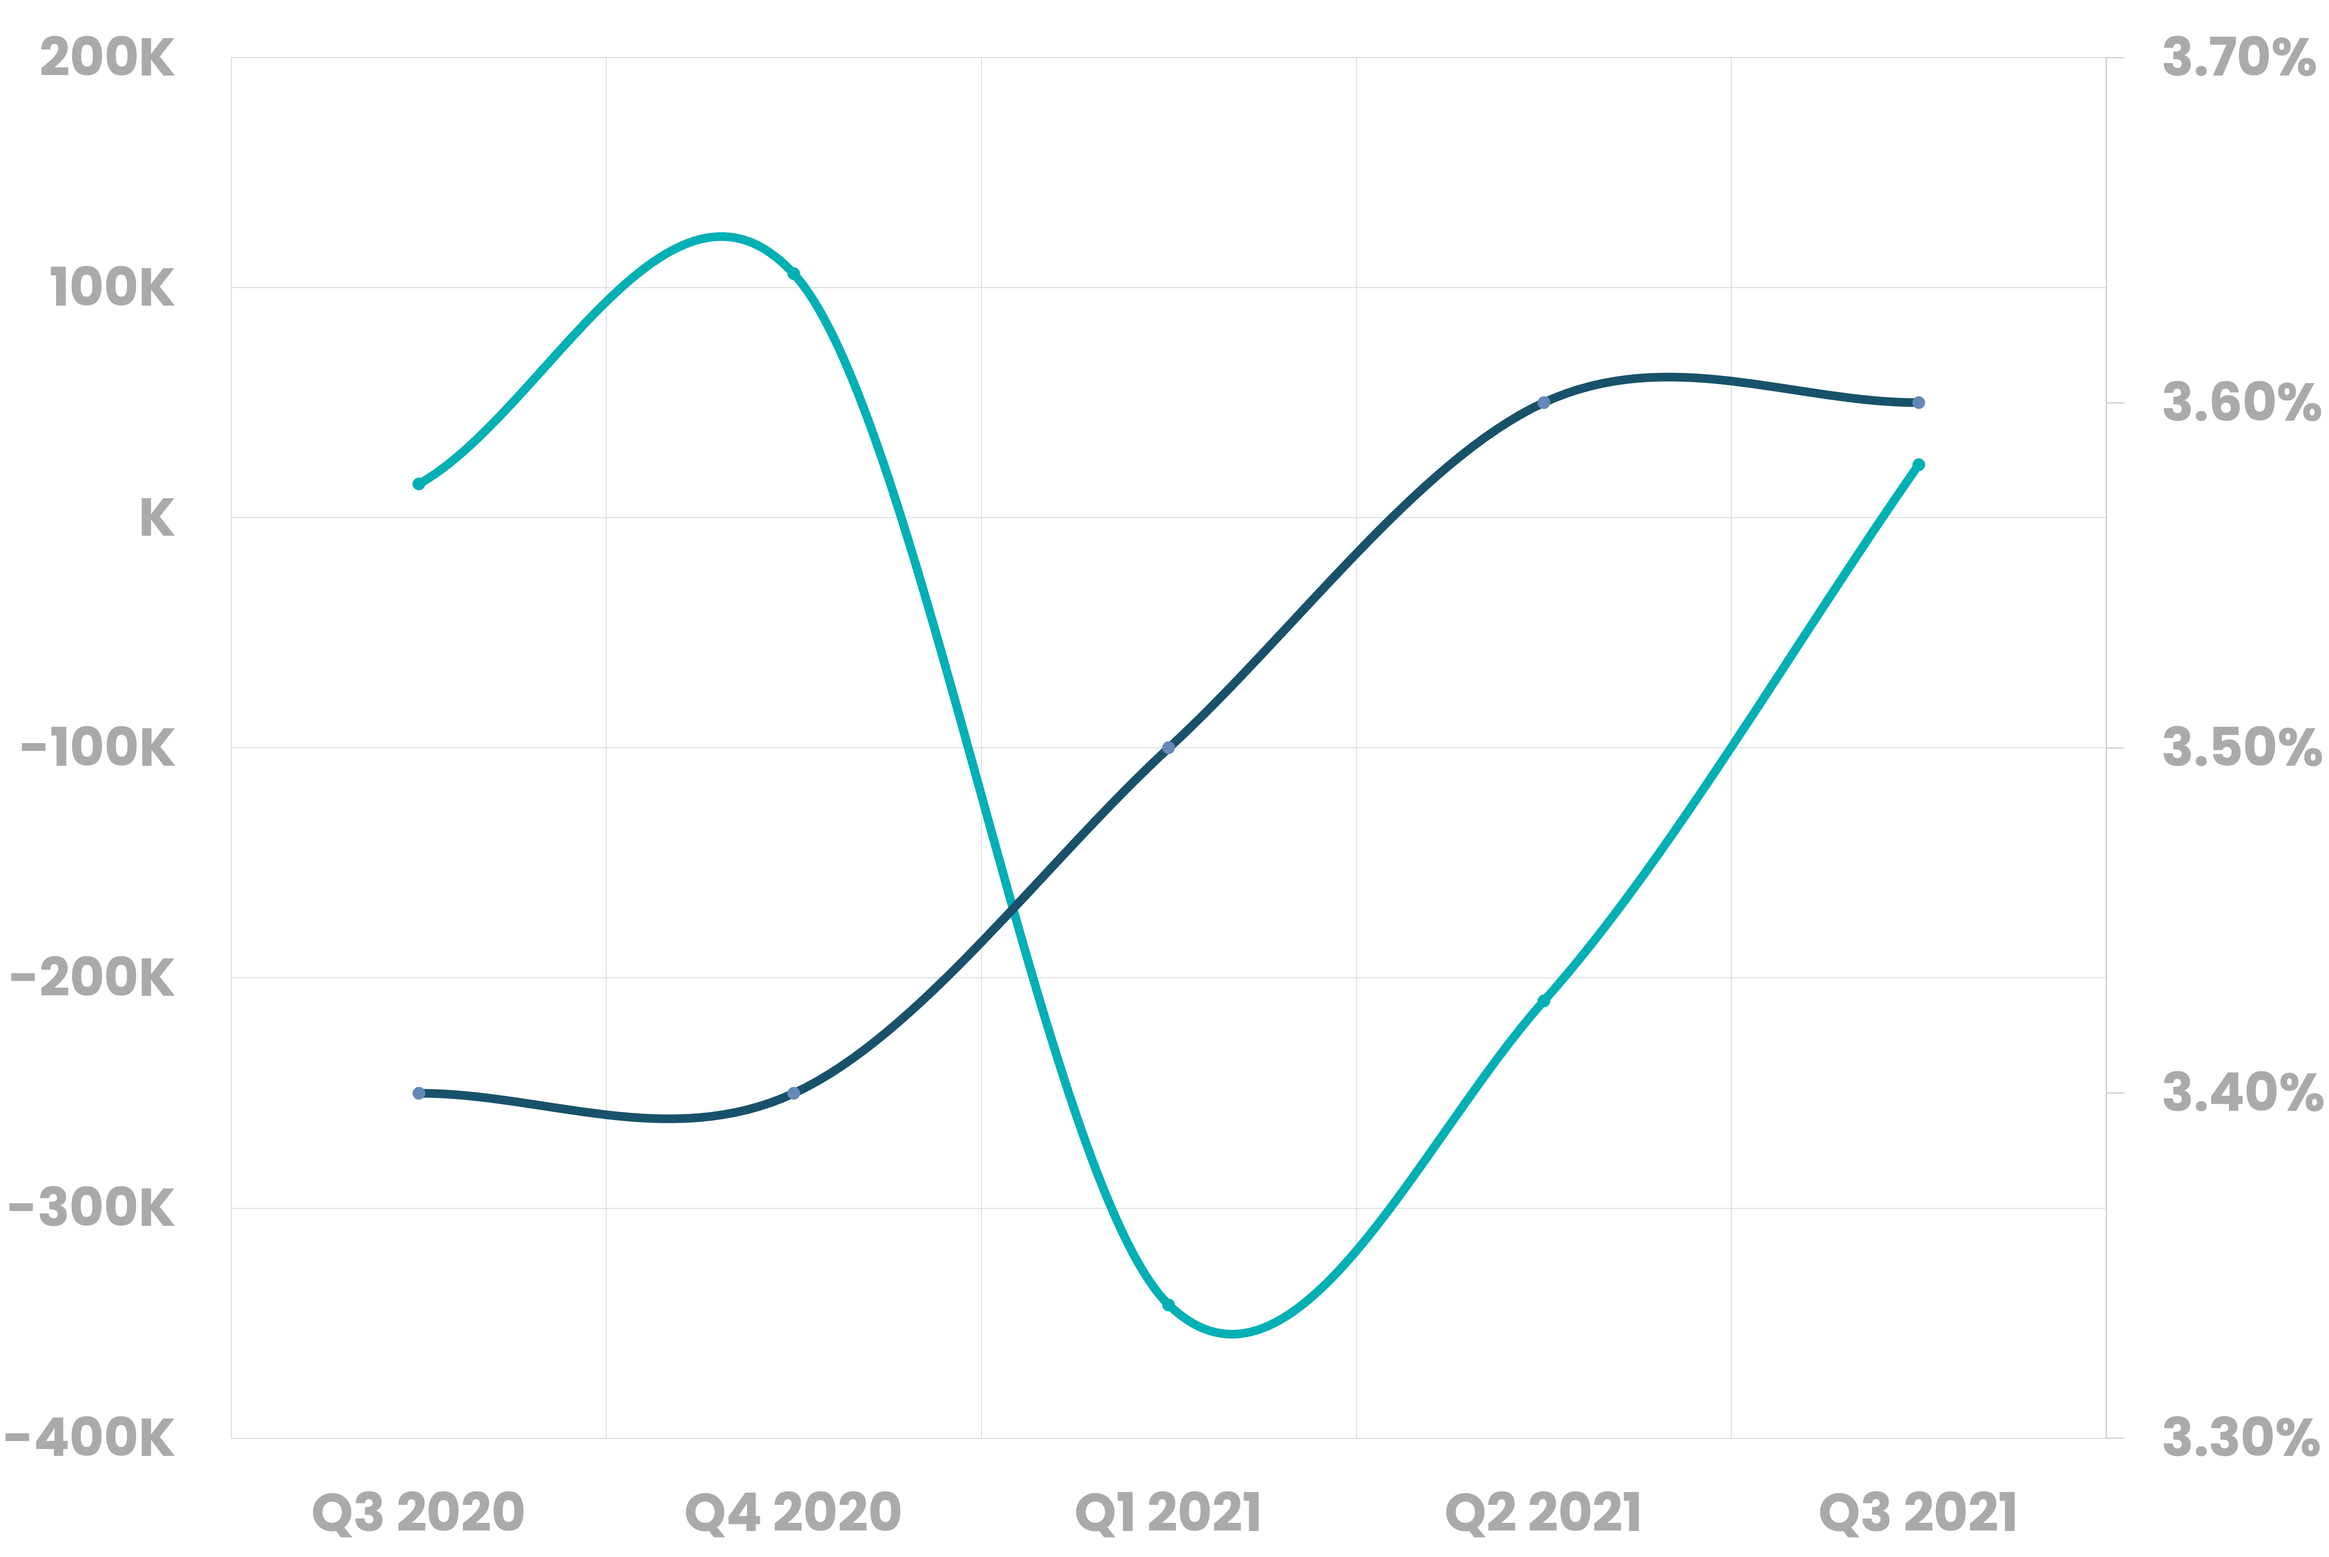
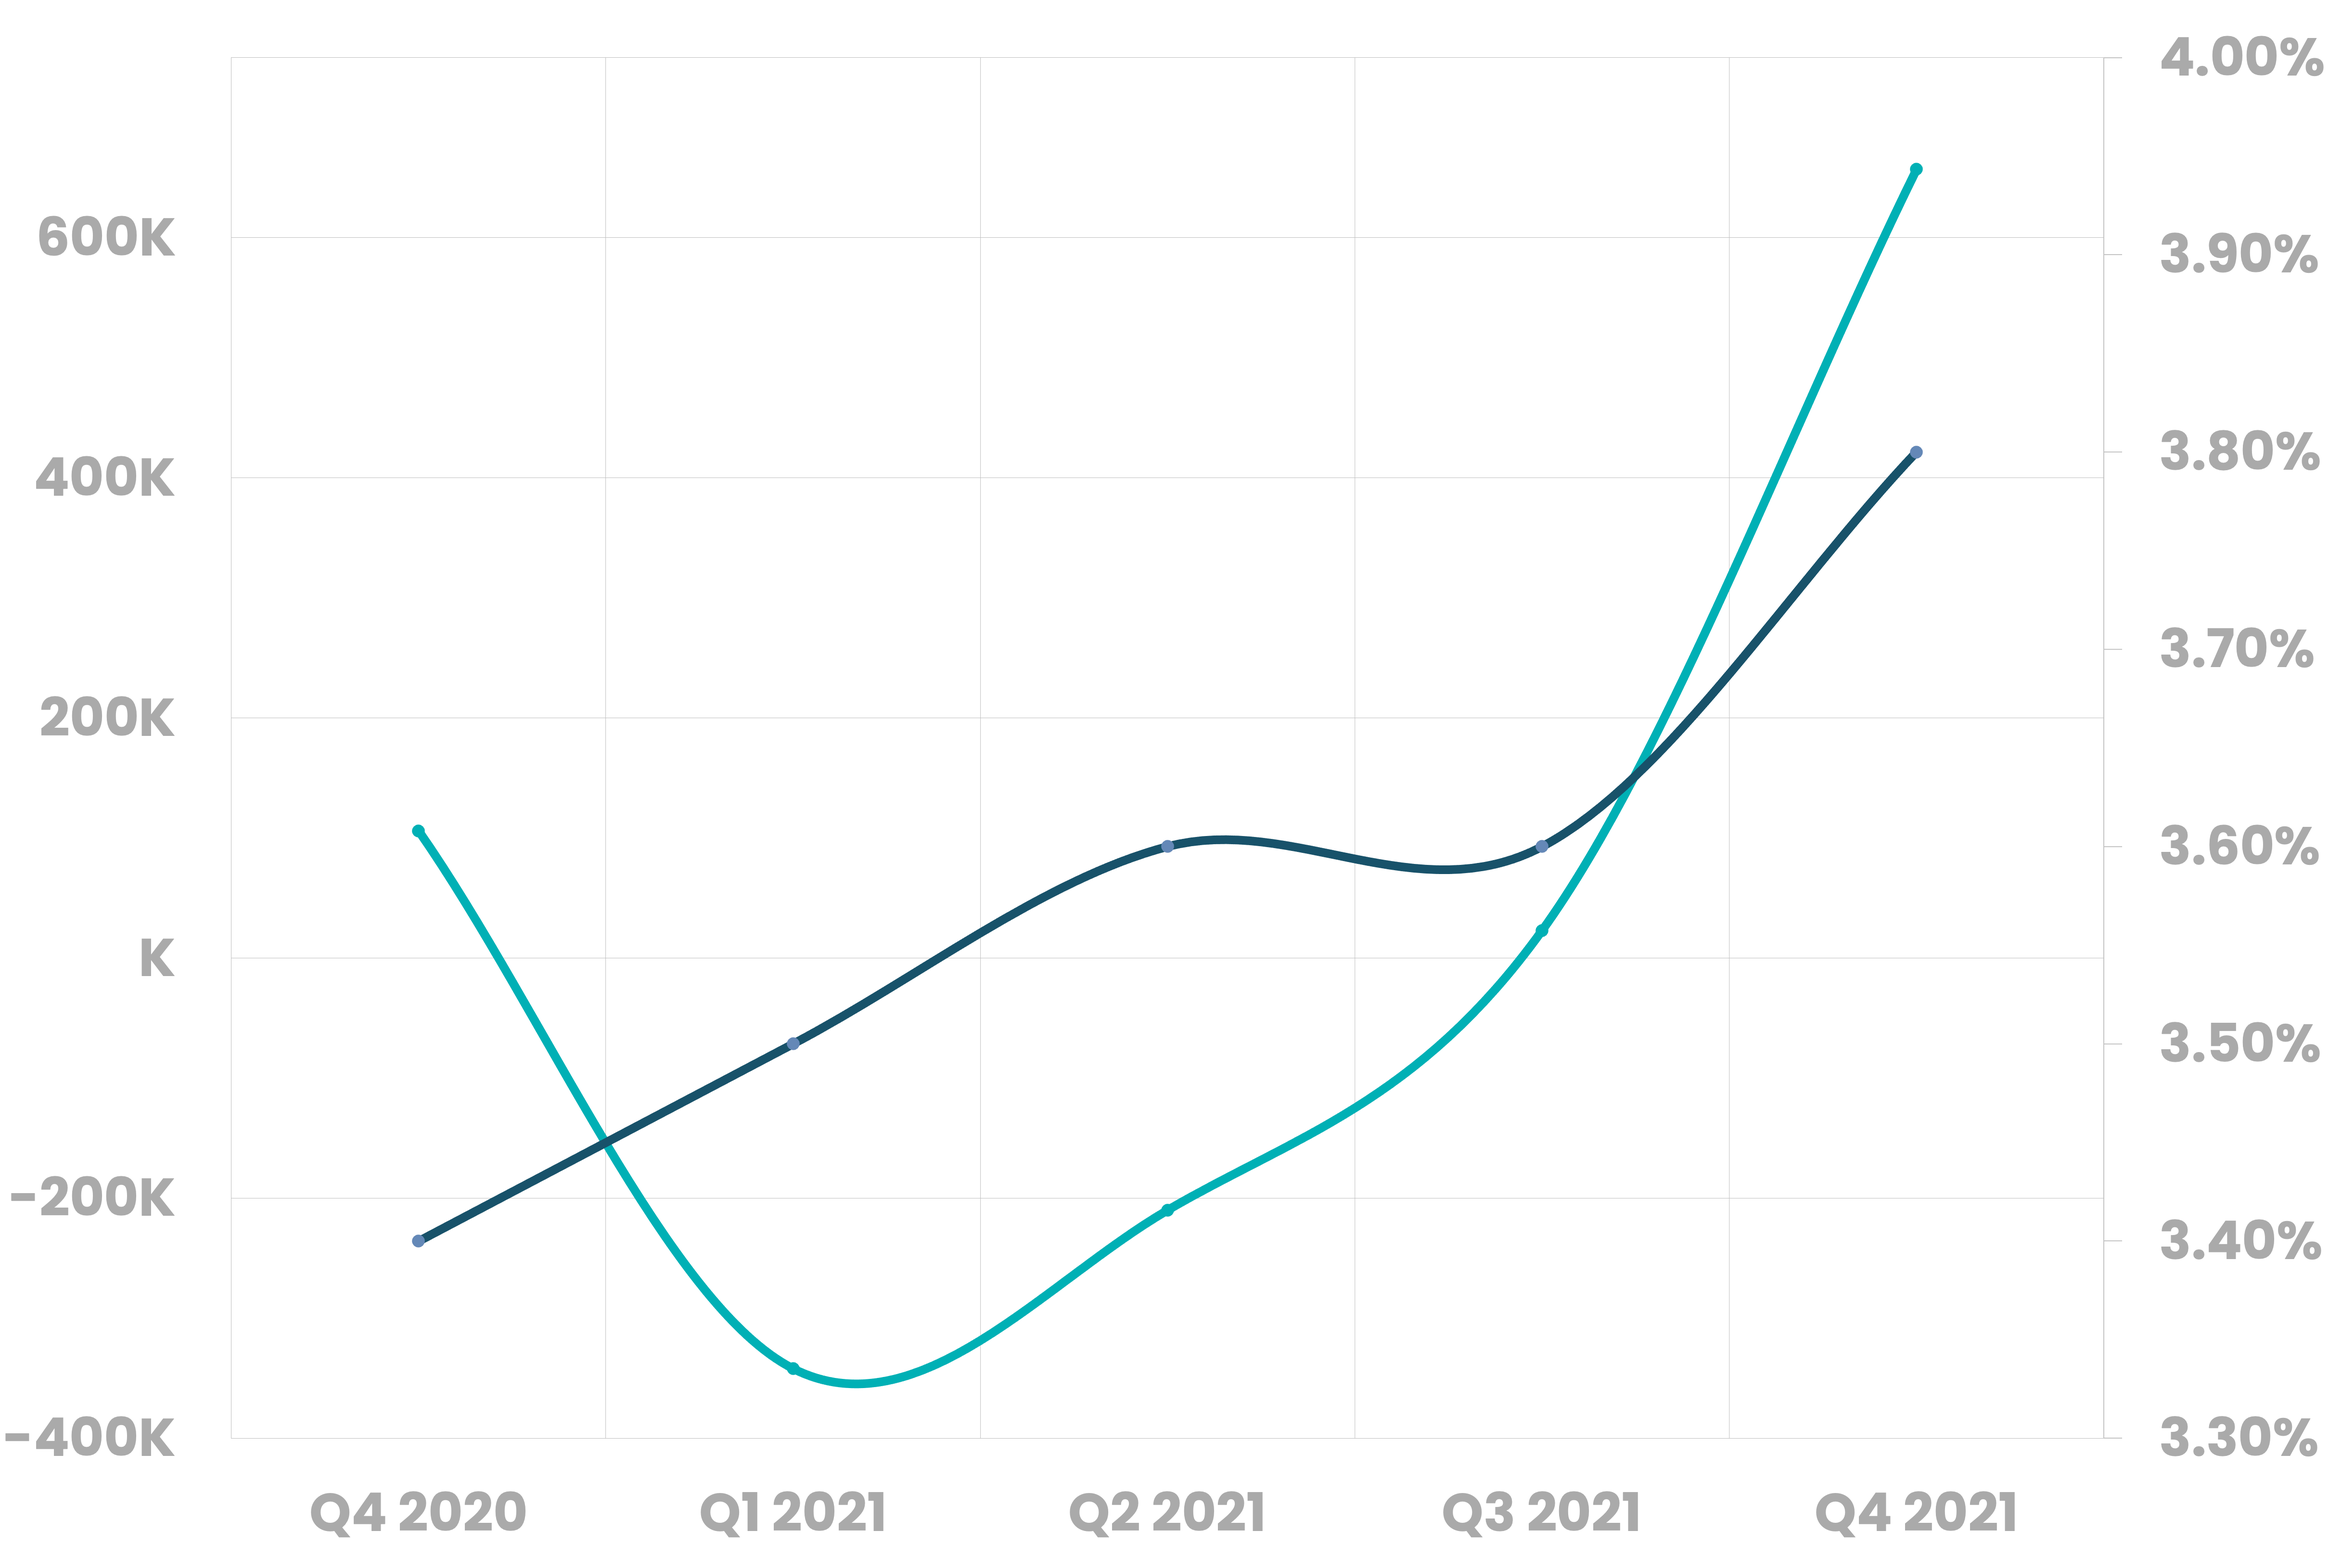
update market reports and services subpages

diff --git a/services/office.html b/services/office.html
@@ -109,16 +109,16 @@
         <hr>
         <div class="row services--market-snapshot">
           <h2>Office Market Snapshot</h2>
-          <div class="col-md-7 market-snapshot--chart"><img class="img-responsive" src="../img/market-reports-office.png" alt="Office Market Snapshot"><a href="../marketing/marketreports/2021/nai_ohio_equities_2021q3.pdf">Download Full 3rd Quarter 2021 Market Report</a></div>
+          <div class="col-md-7 market-snapshot--chart"><img class="img-responsive" src="../img/market-reports-office.png" alt="Office Market Snapshot"><a href="../marketing/marketreports/2021/nai_ohio_equities_2021q4.pdf">Download Full 4th Quarter 2021 Market Report</a></div>
           <div class="col-md-5">
             <div class="market-snapshot--content">
-              <p class="market-snapshot--bullet01"><span class="market-snapshot--number snapshot-number01">01</span>The Office vacancy rate stayed at 9.5% during the third quarter of 2021.</p>
-              <p class="market-snapshot--bullet02"><span class="market-snapshot--number snapshot-number02">02</span>The Office market had positive absorption of 39,684 SF in the third quarter of 2021.</p>
+              <p class="market-snapshot--bullet01"><span class="market-snapshot--number snapshot-number01">01</span>The Office vacancy rate fell to 9.3% during the fourth quarter of 2021.</p>
+              <p class="market-snapshot--bullet02"><span class="market-snapshot--number snapshot-number02">02</span>The Office market had positive absorption of 270,000 SF in the fourth quarter of 2021.</p>
               <div class="market-snapshot--header">
-                <h3>3rd Quarter 2021</h3>
+                <h3>4th Quarter 2021</h3>
                 <ul>
-                  <li>Net absorption climbed out of the negative in the Third Quarter to a positive absorption of 39,684 SF for the first time this year, primarily due to new construction. An additional 696,000 SF of office space is under construction as of Q3 21.</li>
-                  <li>“Two sectors of the Columbus Office Market are very active in 2021 as companies continue their return to the office: owner/occupant office sales 20k SF and below, and tenant office leasing 10k SF and below. Lucrative financing opportunities, move-in ready space with short-term commitments for evaluating growth and minimal landlord TI requirements are all contributing. Multi-tenant general and medical office investment sales remain strong in key submarkets.” - <strong>Andy Dutcher, VP Office Brokerage</strong></li>
+                  <li>For the second consecutive quarter the Columbus office market experienced positive net absorption, which totaled 270,000 SF in Q4 21. Average lease rates held at just over $21/SF, and new development remains steady with nearly 1.5 million SF under construction.</li>
+                  <li>“Despite the lingering pandemic, leasing activity continues to strengthen with more tenants in the market and larger transactions occurring in both the suburbs and downtown. We anticipate this trend will continue in 2022, especially with the demand for high quality and new construction opportunities that are well amenitized.” - <strong>Philip Bird, VP Office Brokerage</strong></li>
                 </ul>
               </div>
             </div>

diff --git a/services/retail.html b/services/retail.html
@@ -109,16 +109,16 @@
         <hr>
         <div class="row services--market-snapshot">
           <h2>Retail Market Snapshot</h2>
-          <div class="col-md-7 market-snapshot--chart"><img class="img-responsive" src="../img/market-reports-retail.png" alt="Retail Market Snapshot"><a href="../marketing/marketreports/2021/nai_ohio_equities_2021q3.pdf">Download Full 3rd Quarter 2021 Market Report</a></div>
+          <div class="col-md-7 market-snapshot--chart"><img class="img-responsive" src="../img/market-reports-retail.png" alt="Retail Market Snapshot"><a href="../marketing/marketreports/2021/nai_ohio_equities_2021q4.pdf">Download Full 4th Quarter 2021 Market Report</a></div>
           <div class="col-md-5">
             <div class="market-snapshot--content">
-              <p class="market-snapshot--bullet01"><span class="market-snapshot--number snapshot-number01">01</span>The Retail vacancy rate stayed at 3.6% during the third quarter of 2021.</p>
-              <p class="market-snapshot--bullet02"><span class="market-snapshot--number snapshot-number02">02</span>The Retail market had positive absorption of 23,000 SF in the third quarter of 2021.</p>
+              <p class="market-snapshot--bullet01"><span class="market-snapshot--number snapshot-number01">01</span>The Retail vacancy rate rose to 3.8% during the fourth quarter of 2021.</p>
+              <p class="market-snapshot--bullet02"><span class="market-snapshot--number snapshot-number02">02</span>The Retail market had positive absorption of 657,000 SF in the fourth quarter of 2021.</p>
               <div class="market-snapshot--header">
-                <h3>3rd Quarter 2021</h3>
+                <h3>4th Quarter 2021</h3>
                 <ul>
-                  <li>After falling into negative territory in 2020, demand has staged a solid recovery in 2021, with more than 500,000 SF of space absorbed in September. Households have more discretionary income, which will support spending both online and in physical locations.</li>
-                  <li>“Central Ohio’s strongest retail destinations - Easton, Polaris, and Hamilton Quarter, continue to perform well with low vacancy, new tenants, and the market’s highest retail rates. Quarterly trends indicate a continued recovery with over 300,000 SF in net absorption over the past 12 months, a steady vacancy rate of 3.6%, and steady rent growth at 2.7%.” - <strong>Mike Simpson, President</strong></li>
+                  <li>The retail sector entered the recovery phase in 2021 with retailer bankruptcies and store closure annoucements declining. Columbus in particular, has vacancies significantly below the national average. Households are flush with cash as savings are estimated to exceed $3 trillion which will support continued gains in spending.</li>
+                  <li>“The Central Ohio retail market continues to move in the right direction thanks to increasing household income resulting from both the goverment stimulus in 2021, and more recently, strong wage growth. Central Ohio retail fundamentals are strong: a healthy vacancy rate well below the national average, positive absorbtion and positive rent growth.” - <strong>Mike Simpson, President</strong></li>
                 </ul>
               </div>
             </div>

diff --git a/services/industrial.html b/services/industrial.html
@@ -109,16 +109,16 @@
         <hr>
         <div class="row services--market-snapshot">
           <h2>Industrial Market Snapshot</h2>
-          <div class="col-md-7 market-snapshot--chart"><img class="img-responsive" src="../img/market-reports-industrial.png" alt="Industrial Market Snapshot"><a href="../marketing/marketreports/2021/nai_ohio_equities_2021q3.pdf">Download Full 3rd Quarter 2021 Market Report</a></div>
+          <div class="col-md-7 market-snapshot--chart"><img class="img-responsive" src="../img/market-reports-industrial.png" alt="Industrial Market Snapshot"><a href="../marketing/marketreports/2021/nai_ohio_equities_2021q4.pdf">Download Full 4th Quarter 2021 Market Report</a></div>
           <div class="col-md-5">
             <div class="market-snapshot--content">
-              <p class="market-snapshot--bullet01"><span class="market-snapshot--number snapshot-number01">01</span>The Industrial vacancy rate fell to 4.6% during the third quarter of 2021.</p>
-              <p class="market-snapshot--bullet02"><span class="market-snapshot--number snapshot-number02">02</span>The Industrial market had positive absorption of 4.4M SF in the third quarter of 2021.</p>
+              <p class="market-snapshot--bullet01"><span class="market-snapshot--number snapshot-number01">01</span>The Industrial vacancy rate fell to 3.5% during the fourth quarter of 2021.</p>
+              <p class="market-snapshot--bullet02"><span class="market-snapshot--number snapshot-number02">02</span>The Industrial market had positive absorption of 5.6M SF in the fourth quarter of 2021.</p>
               <div class="market-snapshot--header">
-                <h3>3rd Quarter 2021</h3>
+                <h3>4th Quarter 2021</h3>
                 <ul>
-                  <li>Supply and demand continue to grow, driving construction and absorption to the highest levels in the market’s history. Pandemic-related changes in consumer spending habits, fueled a surge in e-commerce and drove both industrial and retail users to bolster their distribution networks.</li>
-                  <li>“This is the lowest vacancy rate I have seen in my 34-year career which is creating a strong landlord’s market. It is driving record new construction of over 14 MSF in Central Ohio.” - <strong>Curt Berlin SIOR, Industrial Specialist</strong></li>
+                  <li>Central Ohio finished the year the way it started. Leasing activity remained very strong for the quarter with 5.6 MSF of absorption and the vacancy rate at an all-time low.</li>
+                  <li>“We expect the market to remain extremely strong with high demand for new space continuing through 2022. The market has been on a tear and I do not see that changing in the near future.” - <strong>Curt Berlin SIOR, Industrial Specialist</strong></li>
                 </ul>
               </div>
             </div>

diff --git a/css/services.css b/css/services.css
@@ -183,6 +183,11 @@ Agents
     box-shadow: 0 14px 28px rgba(0,0,0,0.25), 0 10px 10px rgba(0,0,0,0.22);
 }
 
+.card--agent img {
+    max-width: 100%;
+    margin: 2rem auto;
+}
+
 .card--listing img {
     margin-bottom: 3em;
 }
